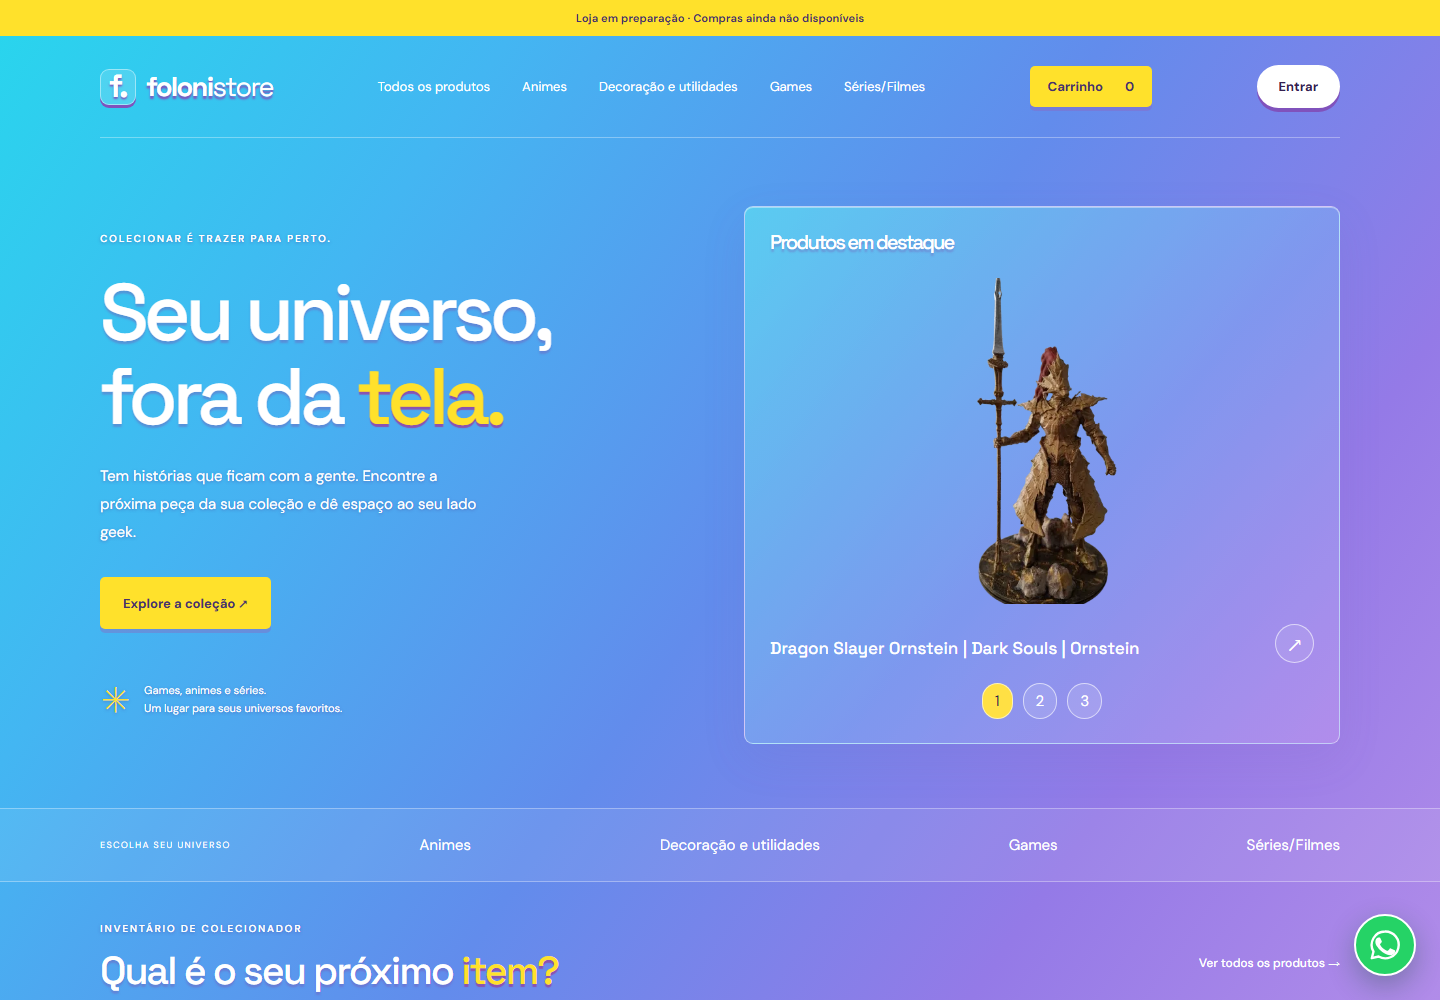
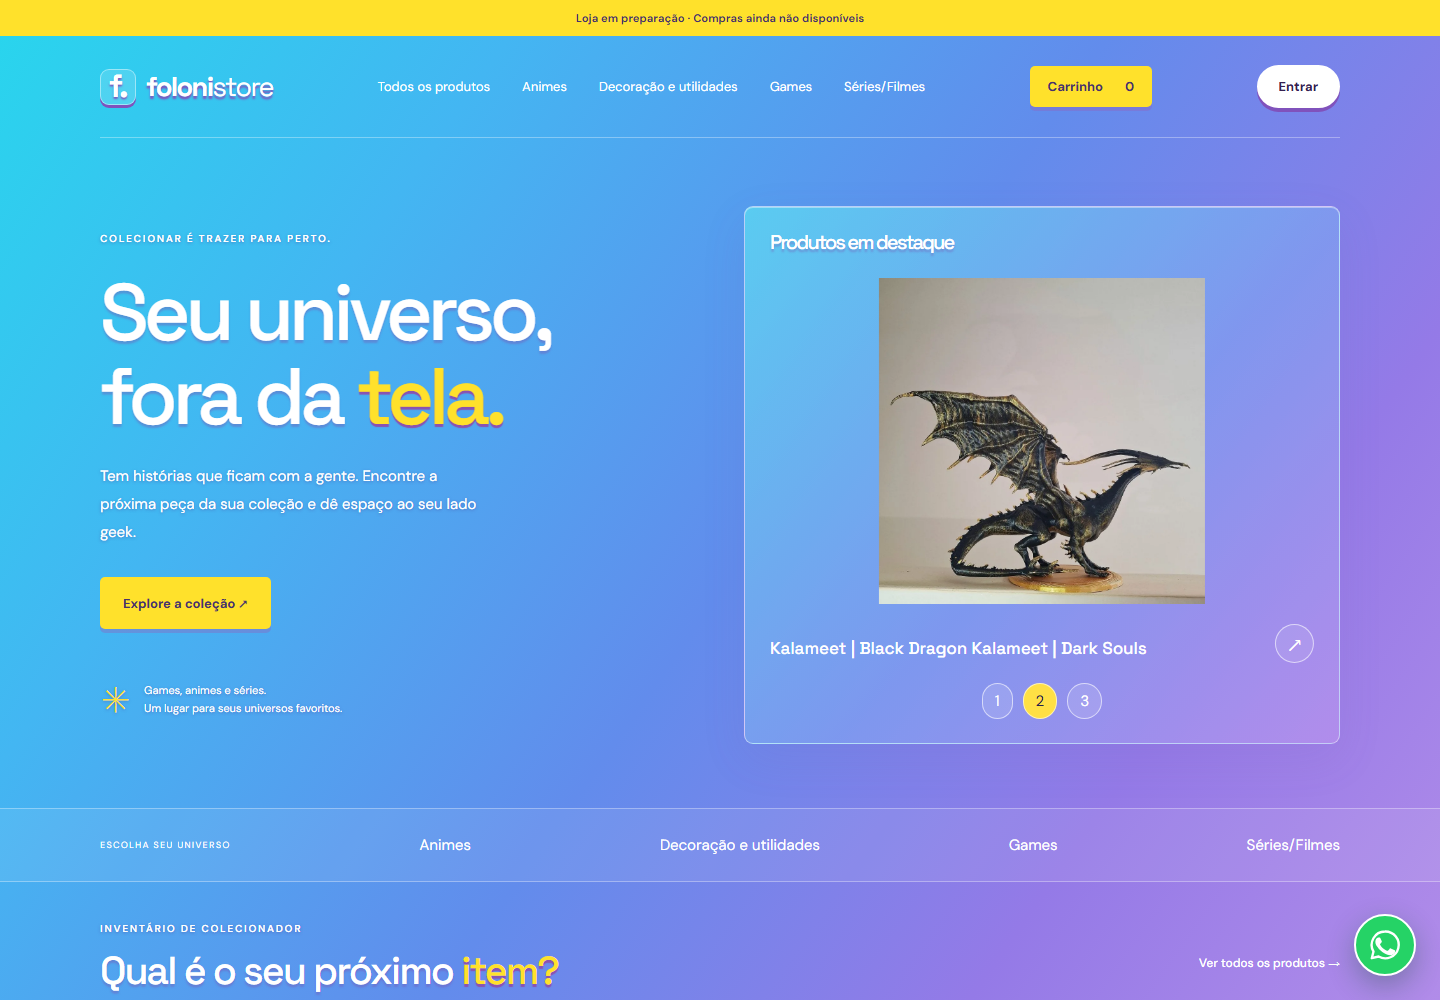
alterando imagem que aparece na folonistore

Changed region(s): [[0.5312, 0.279, 0.8438, 0.682], [0.6562, 0.682, 0.75, 0.713]]

diff --git a/templates/index.html b/templates/index.html
@@ -417,7 +417,7 @@
                     </div>
                     <div class="portfolio-card featured foloni-store-project">
                         <div class="portfolio-image">
-                            <img src="https://foloni.store/imagens/353/" alt="Foloni Store — e-commerce de colecionáveis geek">
+                            <img src="{% static 'images/foloni-store.png' %}" alt="Página inicial da Foloni Store">
                             <div class="portfolio-overlay">
                                 <a href="https://foloni.store" target="_blank" rel="noopener noreferrer" class="portfolio-link" aria-label="Visitar Foloni Store">
                                     <i class="fas fa-external-link-alt"></i>
@@ -427,11 +427,16 @@
                         <div class="portfolio-info">
                             <span class="portfolio-type">Projeto Pessoal</span>
                             <h3>Foloni Store</h3>
-                            <p>E-commerce de colecionáveis para quem gosta de trazer seus universos favoritos para perto. A plataforma reúne catálogo dinâmico, carrinho persistente, contas de cliente, cupons, checkout e cálculo de frete integrado à SuperFrete — tudo construído do zero em Django.</p>
+                            <p>E-commerce de colecionáveis construído ponta a ponta em Django. Reúne catálogo dinâmico, carrinho persistente, contas de cliente, cupons, checkout, pagamentos, webhooks, notificações por e-mail e cálculo de frete integrado à SuperFrete — uma operação completa para transformar o universo geek em uma experiência de compra.</p>
                             <div class="portfolio-tech">
                                 <span>Django</span>
                                 <span>PostgreSQL</span>
                                 <span>E-commerce</span>
+                                <span>Mercado Pago</span>
+                                <span>Webhooks</span>
+                                <span>Pagamentos</span>
+                                <span>E-mails</span>
+                                <span>Notificações</span>
                                 <span>SuperFrete</span>
                             </div>
                             <a href="https://foloni.store" target="_blank" rel="noopener noreferrer" class="portfolio-visit">
